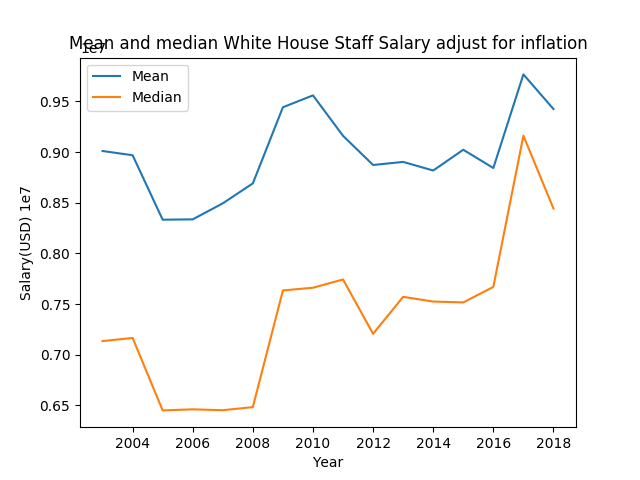
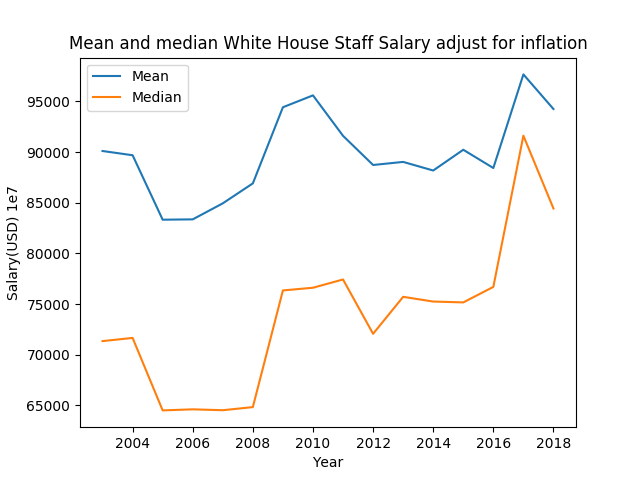
Scalar fix on inflation

diff --git a/gov.py b/gov.py
@@ -3,22 +3,22 @@ import pandas
 import matplotlib.pyplot as plt
 
 inflation = { # Convert to 2018 dollars
-        2003:136.95,
-        2004:133.40,
-        2005:129.03,
-        2006:124.99,
-        2007:121.53,
-        2008:117.04,
-        2009:117.46,
-        2010:115.56,
-        2011:112.03,
-        2012:109.75,
-        2013:108.17,
-        2014:106.44,
-        2015:106.32,
-        2016:104.99,
-        2017:102.94,
-        2018:100.00
+        2003:1.3695,
+        2004:1.3340,
+        2005:1.2903,
+        2006:1.2499,
+        2007:1.2153,
+        2008:1.1704,
+        2009:1.1746,
+        2010:1.1556,
+        2011:1.1203,
+        2012:1.0975,
+        2013:1.0817,
+        2014:1.0644,
+        2015:1.0632,
+        2016:1.0499,
+        2017:1.0294,
+        2018:1.0000
         }
 frames=[]
 keys=[]
@@ -42,7 +42,7 @@ for i in range(2009,2019):
     year.append(i)
     frames.append(comp)
 result = pandas.concat(frames)
-all_frames = pandas.concat(frames,keys=keys)
+all_frames = pandas.concat(frames,keys=year)
 ''' First Graph 
 result.boxplot(by=['YEAR'])
 plt.title("Boxplot of White House Staff Salary by Year")
